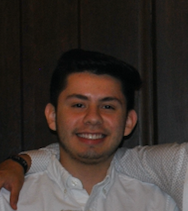
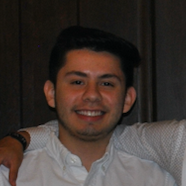
- Parallax effect is working - Smooth scroll is set up

diff --git a/index.html b/index.html
@@ -6,7 +6,7 @@
     <meta name="viewport" content="width=device-width, initial-scale=1, shrink-to-fit=no">
 
     <!-- Bootstrap CSS -->
-    <!-- <link rel="stylesheet" href="bootstrap-4.5.0-dist/css/bootstrap.min.css"> -->
+    <link rel="stylesheet" href="bootstrap-4.5.0-dist/css/bootstrap.min.css">
     <link rel="stylesheet" href="style.css">
 
     <title>Jonathan Gaytan</title>
@@ -19,17 +19,18 @@
           <p>Developer | Teacher</p>
         </header>
       </div> -->
-
       <section class="section section-top">
-        <div class="content rellax" data-rellax-speed="1">
-          <h1>Jonathan Gaytan</h1>
-          <P>Developer | Teacher</P>
+        <div id="overlay">
+          <div class="content rellax" data-rellax-speed="4">
+            <h1>Jonathan Gaytan</h1>
+            <P>Developer | Teacher</P>
+          </div>
         </div>
       </section>
 
-      <section class="section section-stream">
-        <img src="images/Screen Shot 2020-06-07 at 6.20.29 PM.png" alt="" class="rellax">
-        <div class="content rellax" data-rellax-speed="4">
+      <section id="aboutMe" class="section section-stream">
+        <img src="images/Screen Shot 2020-06-07 at 6.20.29 PM.png" alt="" class="rellax" data-rellax-speed="2" data-rellax-percentage="0.5">
+        <div class="content rellax" data-rellax-speed="4" data-rellax-percentage="0.5">
           <div>
             <h2 class="secondary-text">About Me</h2>
             <p>Lorem ipsum dolor sit amet consectetur adipisicing elit. Ullam dolores nisi 
@@ -41,7 +42,7 @@
       </section>
 
       <section class="section section-grid">
-        <div class="rellax" data-rellax-speed="1">
+        <div class="rellax" data-rellax-speed="4" data-rellax-percentage="0.5">
           <h2>Temp-1</h2>
           <p>Lorem ipsum dolor, sit amet consectetur adipisicing elit. Expedita repellat 
             rem veritatis dignissimos esse maxime obcaecati vel? Quia excepturi ipsa aliquam 
@@ -49,7 +50,7 @@
           </p>
         </div>
 
-        <div class="rellax" data-rellax-speed="1">
+        <div class="rellax" data-rellax-speed="4" data-rellax-percentage="0.5">
           <h2>Temp-2</h2>
           <p>Lorem ipsum dolor, sit amet consectetur adipisicing elit. Expedita repellat 
             rem veritatis dignissimos esse maxime obcaecati vel? Quia excepturi ipsa aliquam 
@@ -57,7 +58,7 @@
           </p>
         </div>
 
-        <div class="rellax" data-rellax-speed="1">
+        <div class="rellax" data-rellax-speed="4" data-rellax-percentage="0.5">
           <h2>Temp-3</h2>
           <p>Lorem ipsum dolor, sit amet consectetur adipisicing elit. Expedita repellat 
             rem veritatis dignissimos esse maxime obcaecati vel? Quia excepturi ipsa aliquam 
@@ -69,6 +70,7 @@
 
 
 
+
       
         
 
@@ -76,7 +78,7 @@
     <!-- jQuery first, then Popper.js, then Bootstrap JS -->
     <!-- <script src="https://code.jquery.com/jquery-3.5.1.slim.min.js" integrity="sha384-DfXdz2htPH0lsSSs5nCTpuj/zy4C+OGpamoFVy38MVBnE+IbbVYUew+OrCXaRkfj" crossorigin="anonymous"></script> -->
     <!-- <script src="https://cdn.jsdelivr.net/npm/popper.js@1.16.0/dist/umd/popper.min.js" integrity="sha384-Q6E9RHvbIyZFJoft+2mJbHaEWldlvI9IOYy5n3zV9zzTtmI3UksdQRVvoxMfooAo" crossorigin="anonymous"></script> -->
-    <!-- <script src= "bootstrap-4.5.0-dist/js/bootstrap.min.js" ></script> -->
+    <script src= "bootstrap-4.5.0-dist/js/bootstrap.min.js" ></script>
     <script src="https://cdnjs.cloudflare.com/ajax/libs/rellax/1.11.0/rellax.min.js" integrity="sha256-8mP00/EQjFB5jSwiVfk4SB6aFe1A5SXHr+RNLlx33iY=" crossorigin="anonymous"></script>
     <script>let rellax = new Rellax('.rellax');</script>
   </body>

diff --git a/style.css b/style.css
@@ -8,6 +8,7 @@
   box-sizing: border-box;
   margin: 0;
   padding: 0;  
+  scroll-behavior: smooth;
 }
 
 body{
@@ -31,14 +32,23 @@ a{
   color: var(--secondary-color);
 }
 
+
 .section{
   position: relative;
   padding: 0 20px;
 }
 
 .section-top{
+  padding: 0;
   min-height: 100vh;
   background: url(images/mountains.jpg) no-repeat center
+  center/cover;
+}
+
+#overlay{
+  padding: 0;
+  min-height: 100vh;
+  background: rgba(0, 0, 0, 0.2)no-repeat center
   center/cover;
 }
 
@@ -64,10 +74,11 @@ a{
 }
 
 .section-stream img{
+  border-radius: 50%;
   width: 25%;
   position: absolute;
   top: 100px;
-  left: 80px;
+  left: 100px;
 }
 
 .section-stream h2{
@@ -110,7 +121,6 @@ a{
 
 	.section-top {
 		min-height: 200px;
-		padding-top: 20px;
 	}
 
 	.section-top .content {
